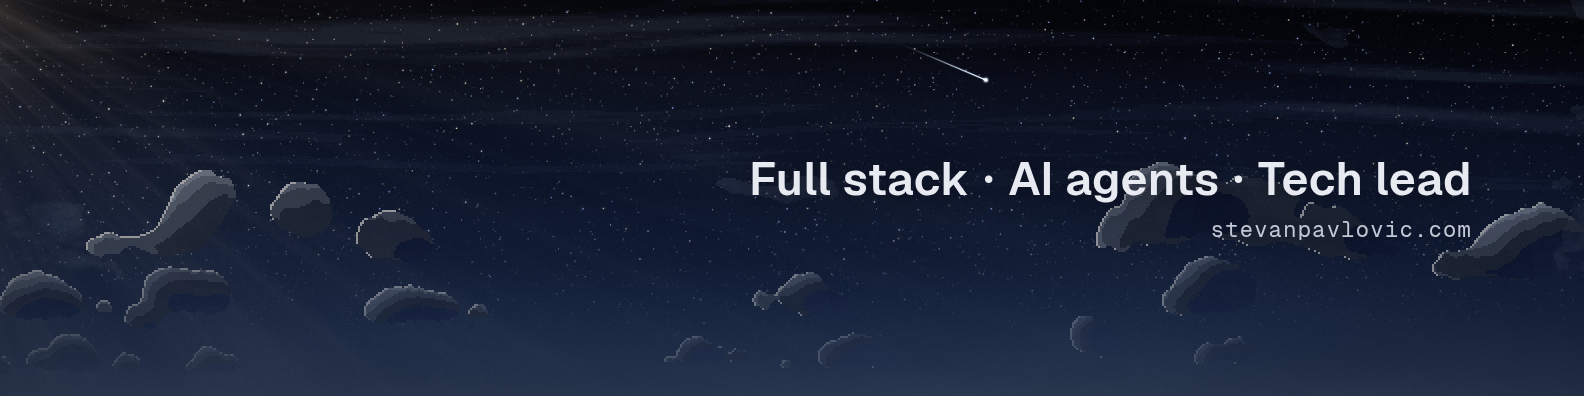
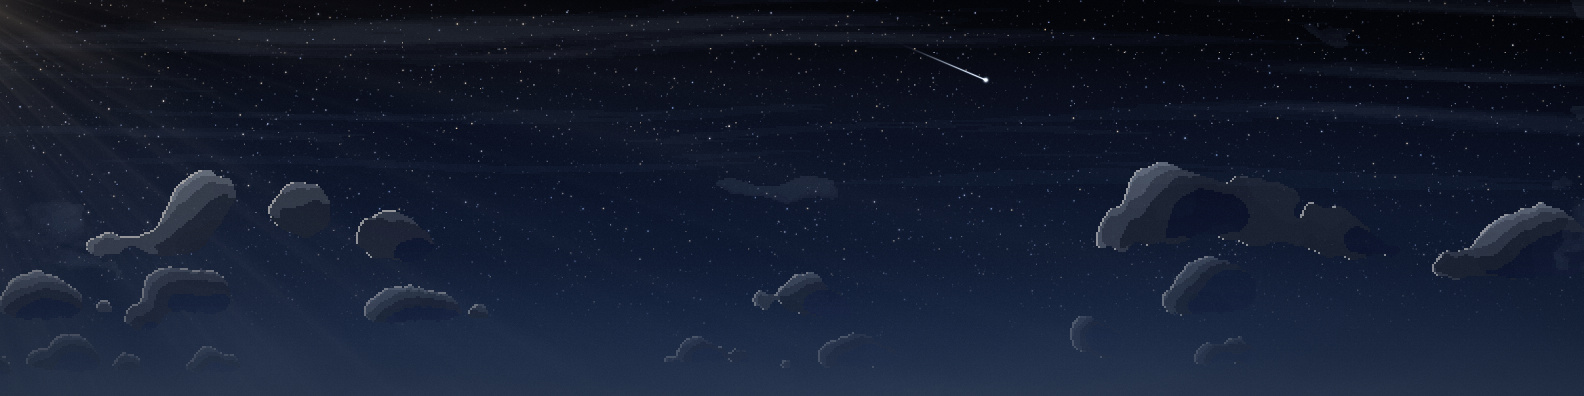
Remove text from the LinkedIn cover

Changed region(s): [[0.464, 0.3939, 0.928, 0.5152], [0.7734, 0.5455, 0.928, 0.6061]]

diff --git a/scripts/generate-images.ts b/scripts/generate-images.ts
@@ -159,11 +159,7 @@ const ogBody = (portrait: string): string => `
   </div>
 </div>`;
 
-const coverBody = (): string => `
-<div style="position:absolute;top:0;bottom:0;right:112px;display:flex;flex-direction:column;justify-content:center;align-items:flex-end;gap:16px;text-align:right">
-  <div style="font-family:Geist;font-size:46px;font-weight:600;letter-spacing:0.01em;line-height:1;white-space:nowrap;color:${profilePalette.ring};text-shadow:0 0 28px ${textShade}">${escapeHtml(en.linkedinCover.line)}</div>
-  <div style="font-family:'Geist Mono';font-size:22px;letter-spacing:0.06em;line-height:1;color:${profilePalette.glyph};text-shadow:0 0 18px ${textShade}">${site}</div>
-</div>`;
+const coverBody = (): string => "";
 
 const storyWidth = 1200;
 const storyHeight = 630;
